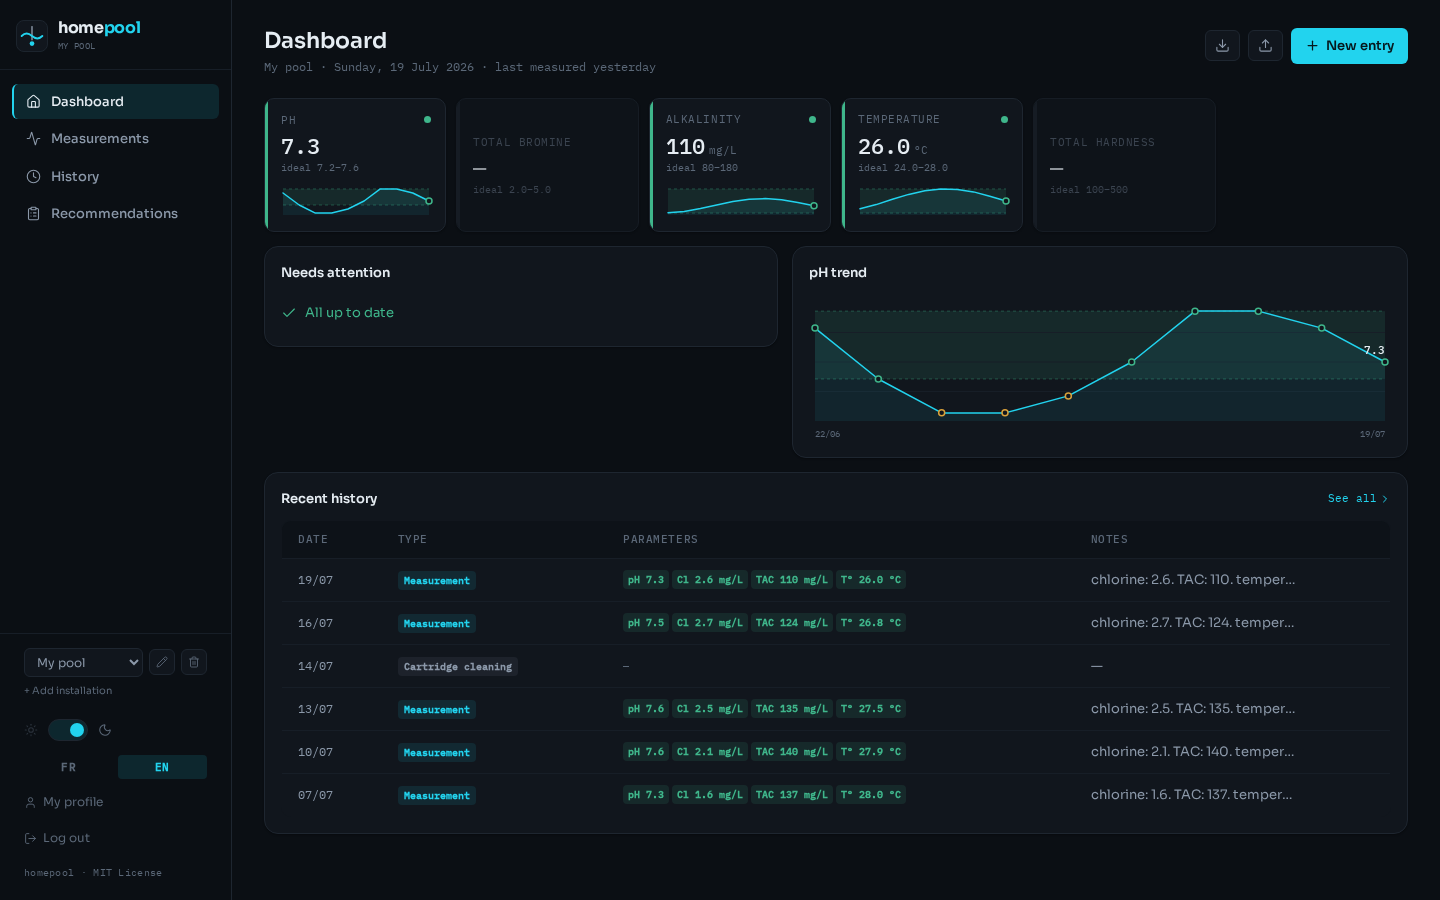
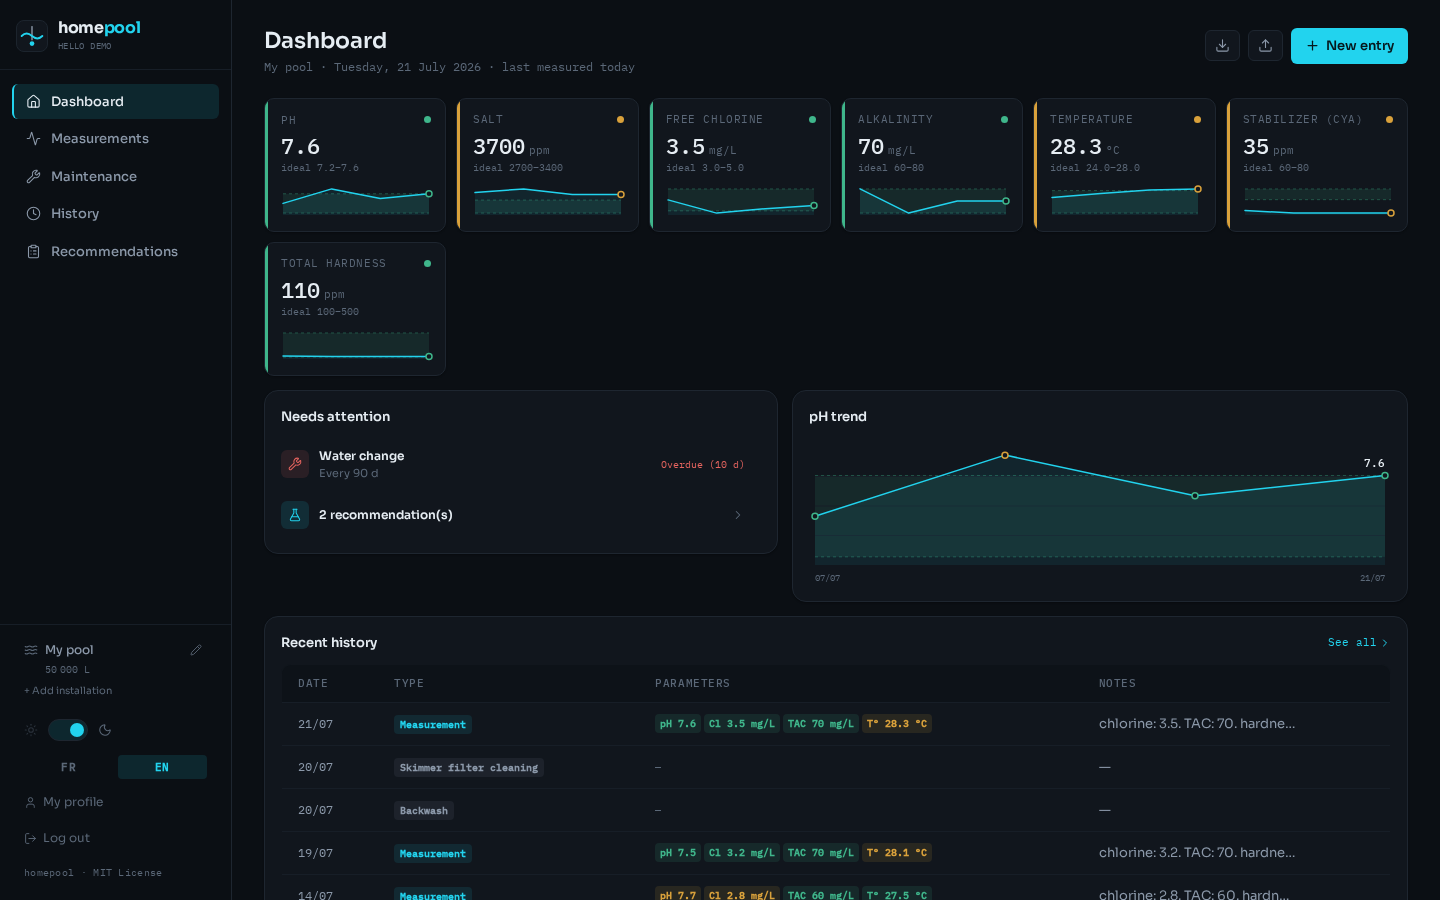
Harden HA card registration (#38) + refresh README screenshots
Fix #38: the intermittent "configuration error" that hits every homepool
Lovelace card at once and clears on refresh. All four custom elements are
defined by one async ES module HA injects globally; guard each
customElements.define against re-registration and de-dupe the card-picker
entries so a re-evaluated/re-injected module never throws
"already been used" (which would abort the tail of the module) or add
duplicate picker rows. (The residual timing is HA's own render/whenDefined
self-heal, which the card can't fully control.)

Screenshots: regenerate the README web-app screenshots via Playwright and
add the new Maintenance and Recommendations pages, plus the two Home
Assistant card screenshots (main + history) in the integration section.
Standardize on dark theme with a light Dashboard reference; drop the
superseded -light shots.

diff --git a/custom_components/homepool/frontend/homepool-card.js b/custom_components/homepool/frontend/homepool-card.js
@@ -1468,19 +1468,31 @@ class HomepoolHistoryCardEditor extends HTMLElement {
 HomepoolCard.getConfigElement = () => document.createElement('homepool-card-editor');
 HomepoolHistoryCard.getConfigElement = () => document.createElement('homepool-history-card-editor');
 
-customElements.define('homepool-card', HomepoolCard);
-customElements.define('homepool-card-editor', HomepoolCardEditor);
-customElements.define('homepool-history-card', HomepoolHistoryCard);
-customElements.define('homepool-history-card-editor', HomepoolHistoryCardEditor);
+// Register defensively: HA injects this module globally (add_extra_js_url), and it can be
+// evaluated more than once (frontend reloads, re-added resources). A bare customElements.define
+// on an already-registered tag throws "Failed to execute 'define'… already used", which would
+// abort the rest of this block and leave registration half-done. Guarding each define keeps a
+// re-run a harmless no-op. (This does not eliminate HA's own render/whenDefined race — where a
+// dashboard paints before this module has executed — which is timing on the HA side.)
+const defineCard = (tag, cls) => {
+  if (!customElements.get(tag)) customElements.define(tag, cls);
+};
+defineCard('homepool-card', HomepoolCard);
+defineCard('homepool-card-editor', HomepoolCardEditor);
+defineCard('homepool-history-card', HomepoolHistoryCard);
+defineCard('homepool-history-card-editor', HomepoolHistoryCardEditor);
 
 window.customCards = window.customCards || [];
-window.customCards.push({
+const registerCard = (entry) => {
+  if (!window.customCards.some((c) => c.type === entry.type)) window.customCards.push(entry);
+};
+registerCard({
   type: 'homepool-card',
   name: 'homepool',
   description: 'Water chemistry status board for a homepool installation.',
   preview: false,
 });
-window.customCards.push({
+registerCard({
   type: 'homepool-history-card',
   name: 'homepool history',
   description: 'Recent measurements, treatments and maintenance for a homepool installation.',

diff --git a/README.md b/README.md
@@ -60,9 +60,13 @@ Designed for self-hosters and the Home Assistant crowd who want full control wit
 |---|---|
 | ![Dashboard dark](docs/screenshots/dashboard-dark.png) | ![Dashboard light](docs/screenshots/dashboard-light.png) |
 
-| Measurements | History |
+| Measurements | Maintenance |
 |---|---|
-| ![Measurements](docs/screenshots/measurements-light.png) | ![History](docs/screenshots/history-light.png) |
+| ![Measurements](docs/screenshots/measurements-dark.png) | ![Maintenance](docs/screenshots/maintenance-dark.png) |
+
+| History | Recommendations |
+|---|---|
+| ![History](docs/screenshots/history-dark.png) | ![Recommendations](docs/screenshots/recommendations-dark.png) |
 
 | New entry — AquaChek strip |
 |---|
@@ -134,6 +138,12 @@ A hand-written Lovelace card ships with the integration (no separate frontend in
 
 Each parameter tile is interactive: **tap the tile** to open the log-measurement popup focused on that field, or **tap the 📈 icon** to open Home Assistant's native more-info dialog (history graph) for that sensor. Pressing a maintenance button flashes a "✓ Logged" confirmation.
 
+<div align="center">
+
+<img src="docs/screenshots/hass-main-card.png" alt="homepool card in Home Assistant" width="360">
+
+</div>
+
 Add it from the card picker (search "homepool") or with YAML:
 
 ```yaml
@@ -154,6 +164,12 @@ Prefer a more configurable, general-purpose pool widget instead? The [Pool Monit
 > Dosage recommendations are web-app-only for now — the card doesn't surface them yet.
 
 **History card.** A companion `homepool-history-card` renders a compact, read-only table of recent activity — measurements, treatments and maintenance — sourced from the `sensor.<prefix>_history` entity the integration exposes. Set `max_items` to cap the rows, and optionally filter with `types`:
+
+<div align="center">
+
+<img src="docs/screenshots/hass-history-card.png" alt="homepool history card in Home Assistant" width="360">
+
+</div>
 
 ```yaml
 type: custom:homepool-history-card